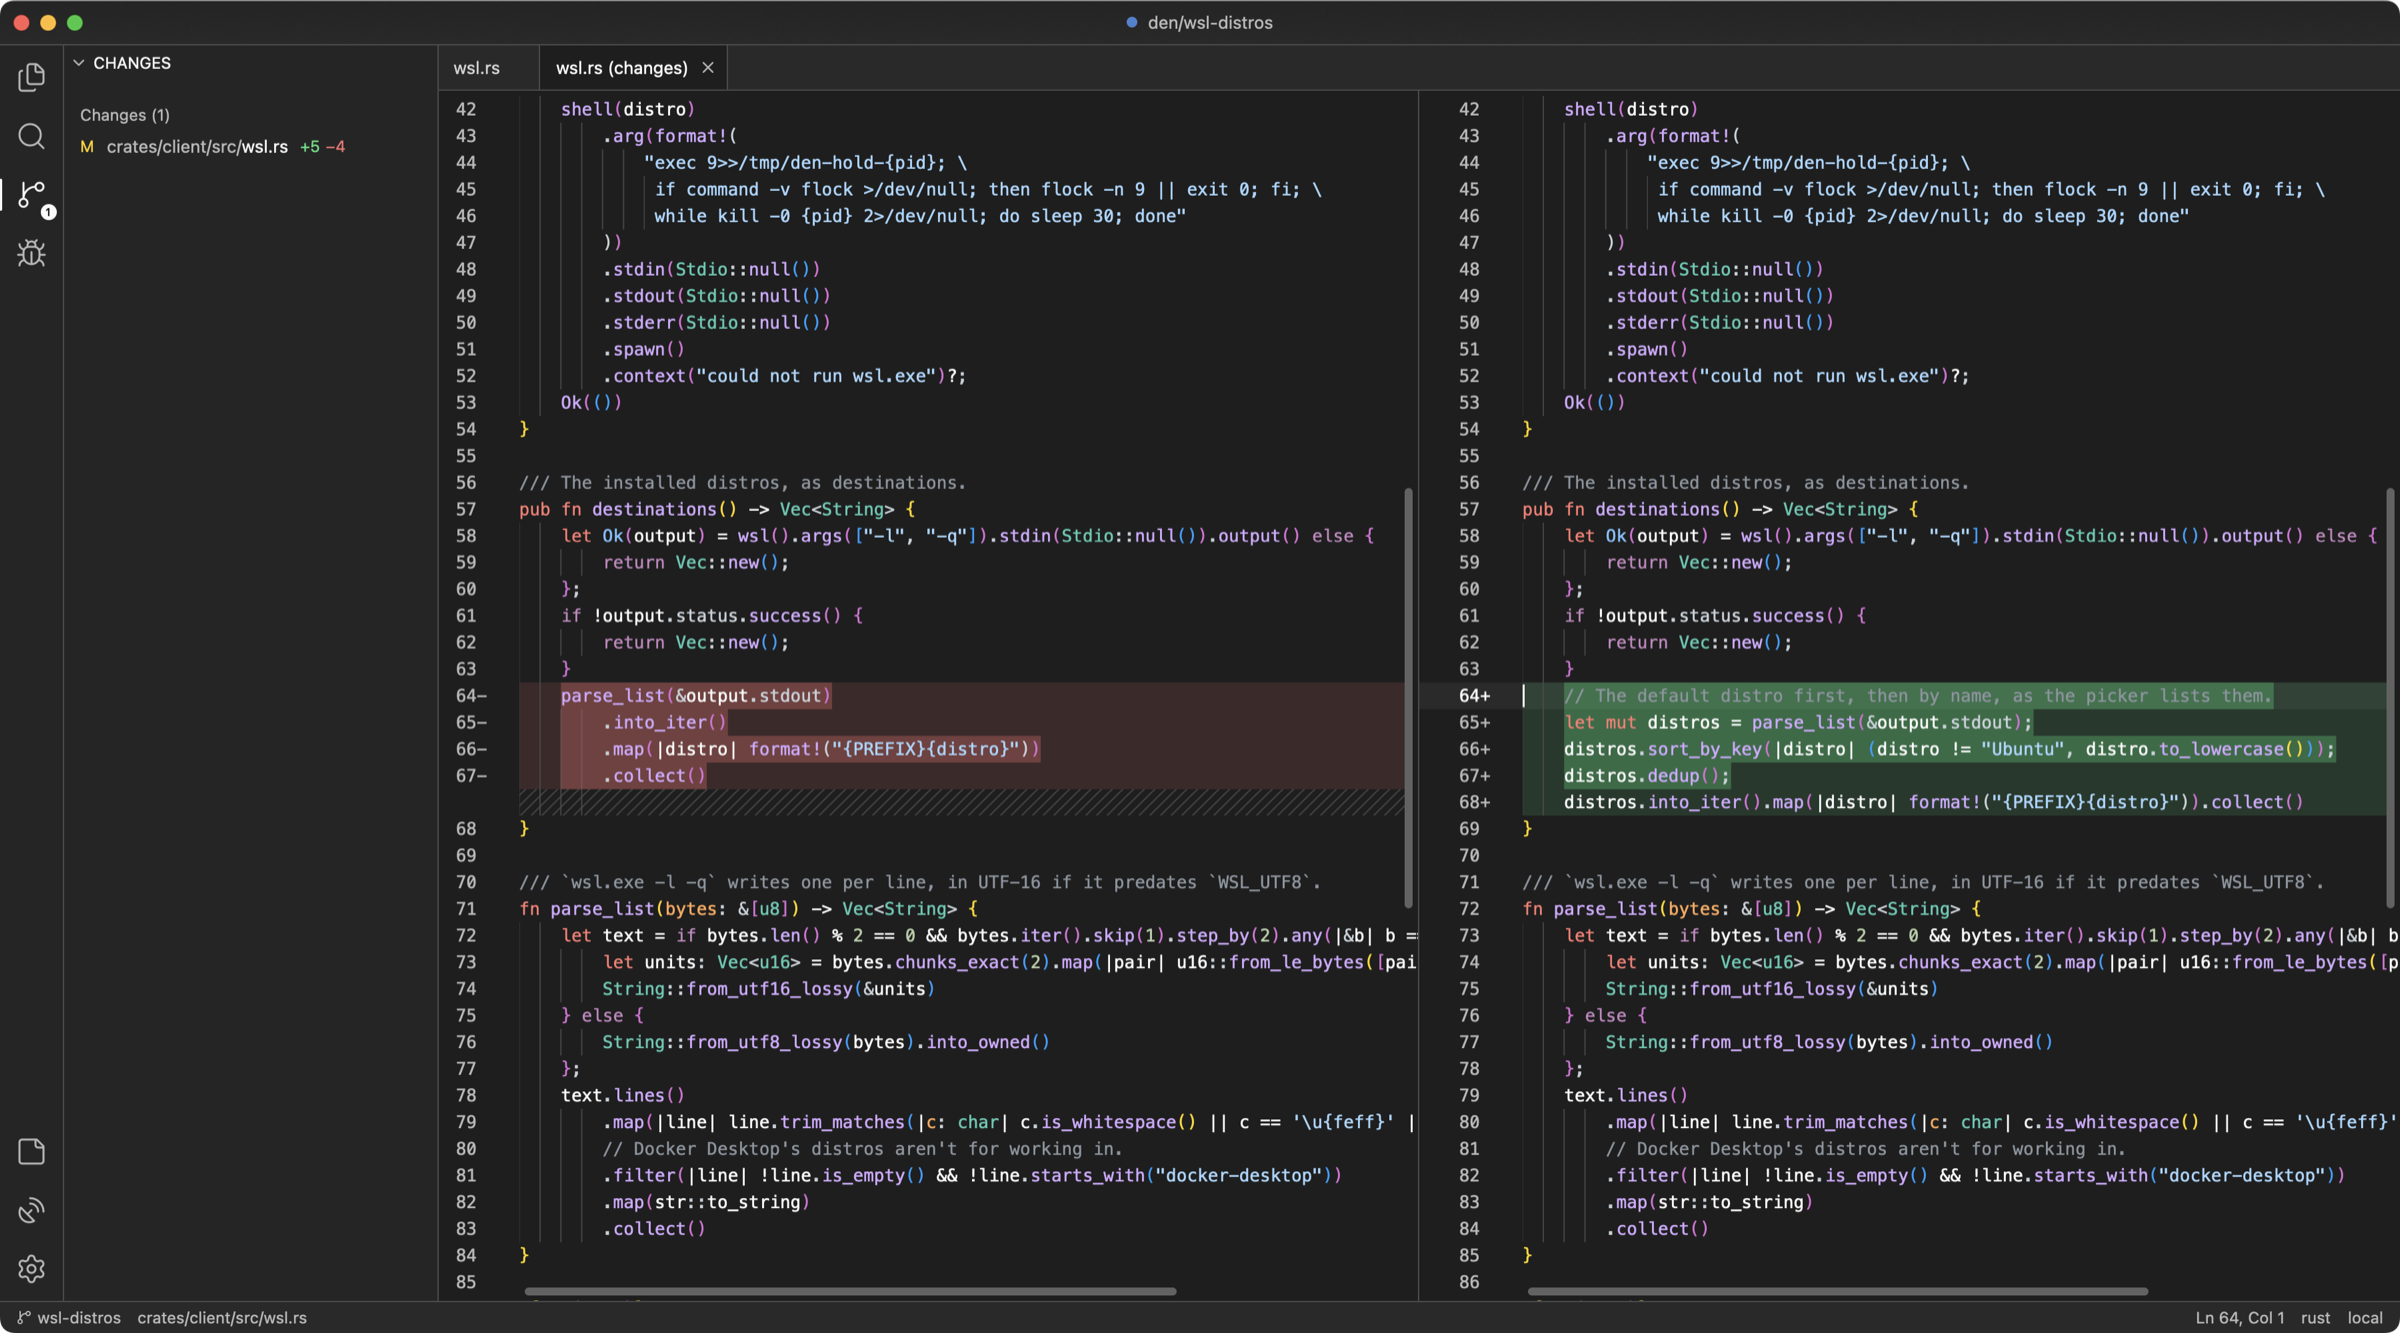
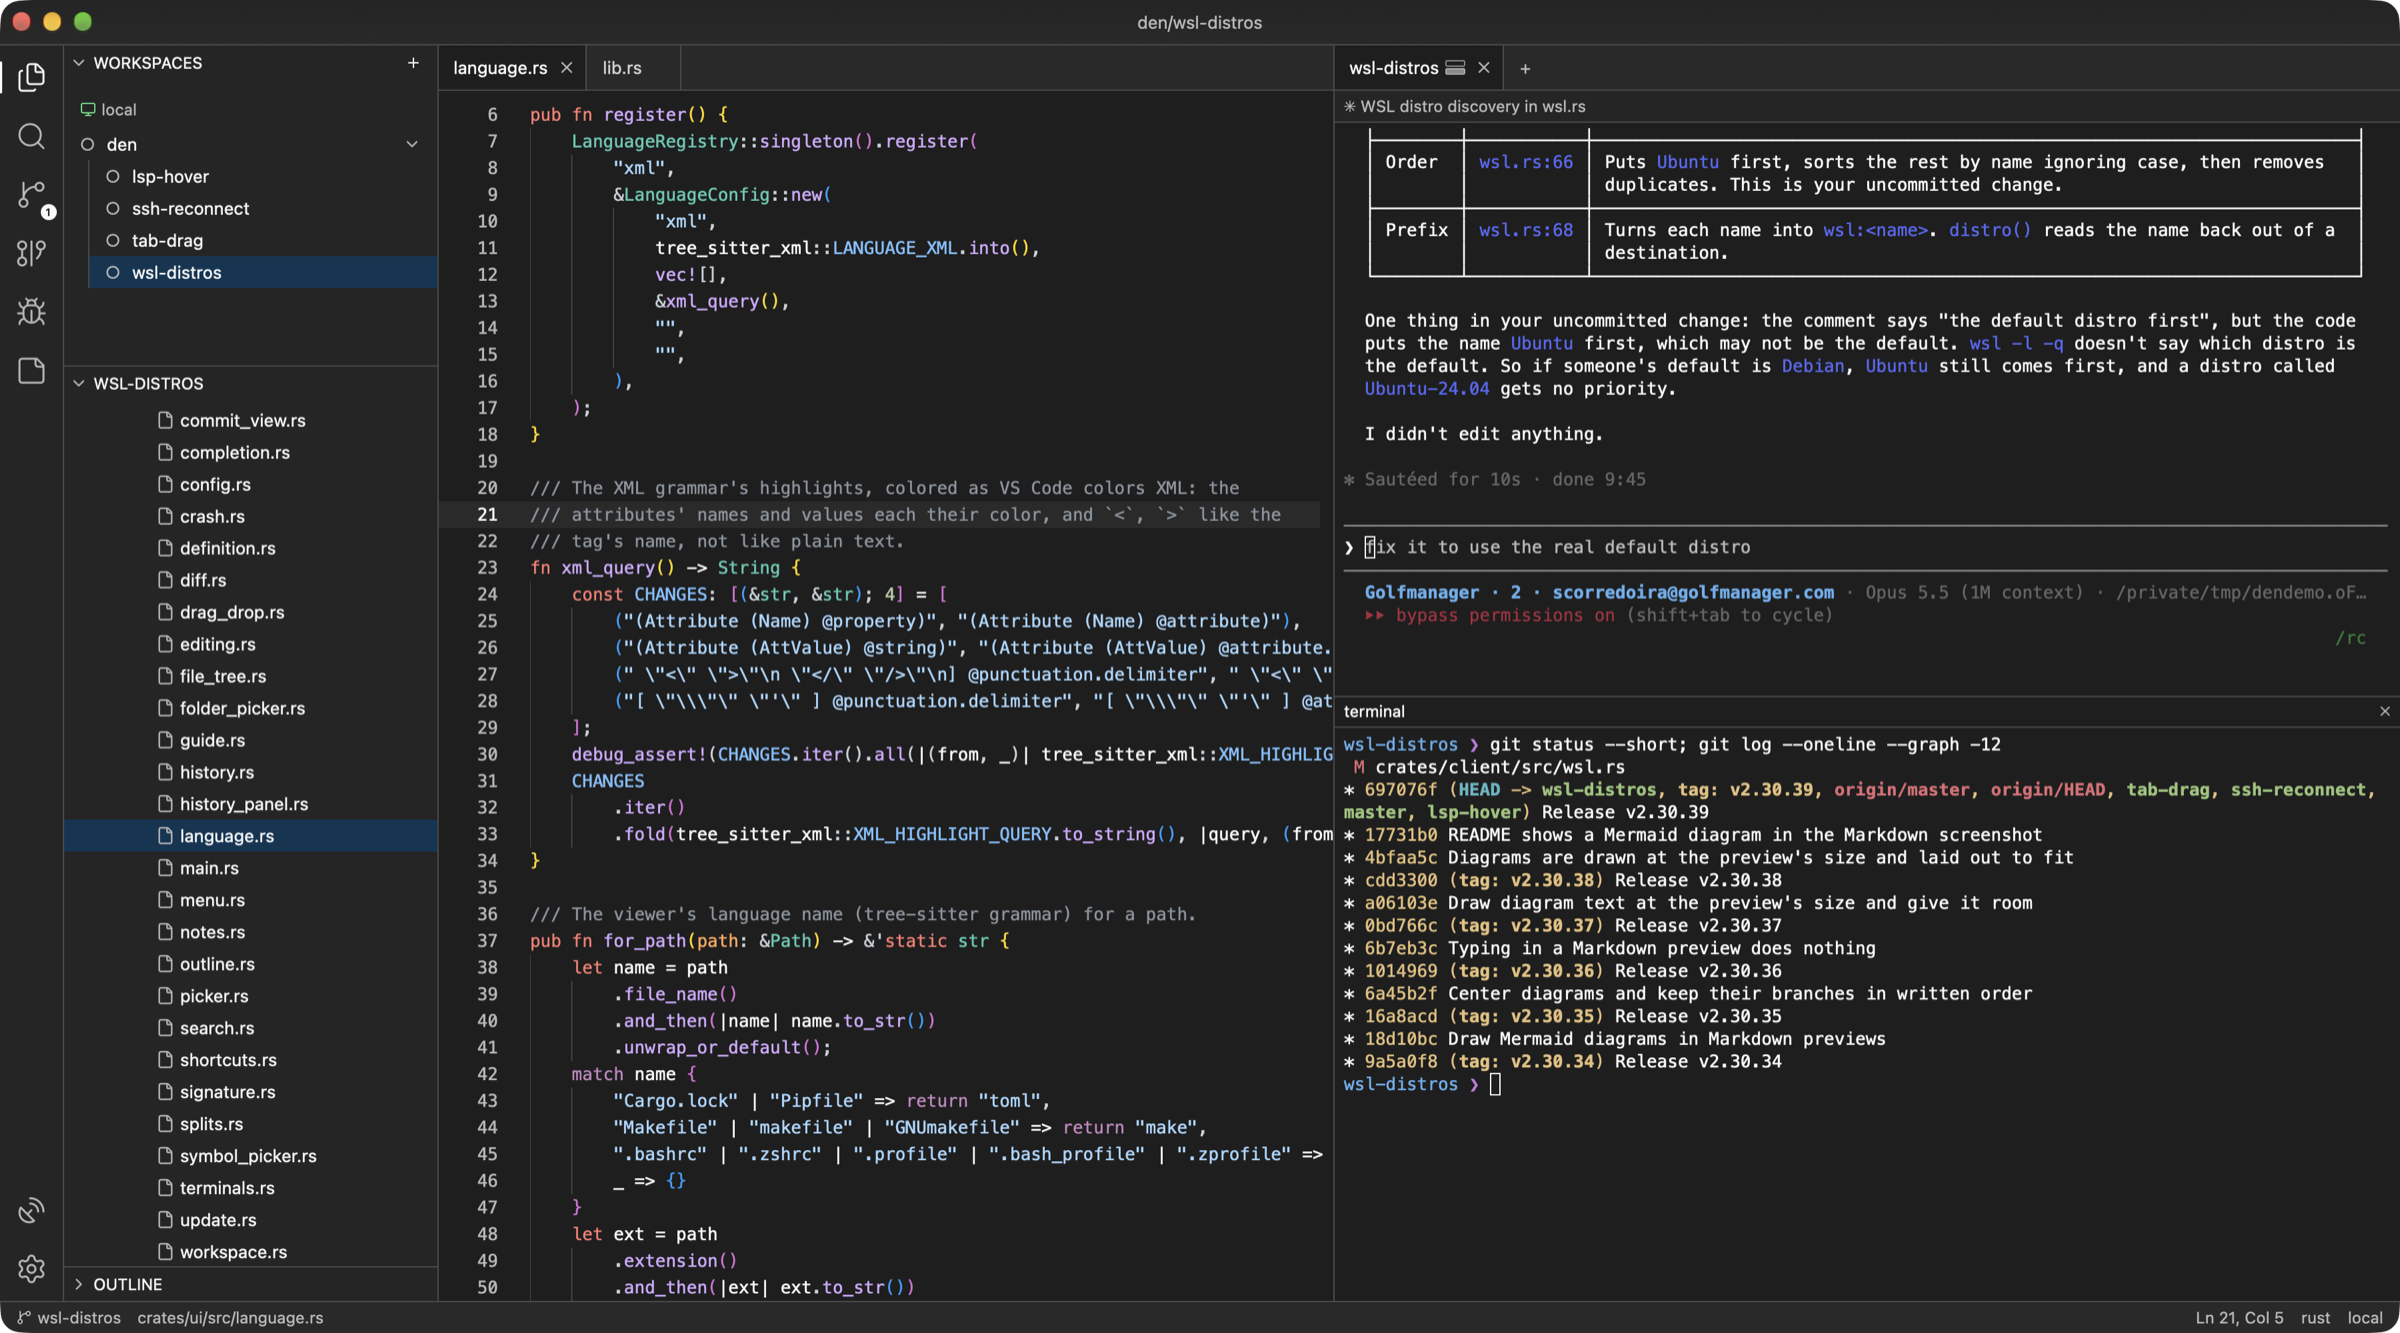
Hiding the terminals over a one-column diff focuses the diff
Cmd-J focused the diff's new side, which a one-column diff doesn't draw,
so no shortcut worked until a click. The screenshot script shows diffs
side by side, opens the History tab with a shortcut of its own and takes
the Markdown shot with a fresh config; new diff, search and history shots.

diff --git a/crates/ui/src/workspace/layout_tests.rs b/crates/ui/src/workspace/layout_tests.rs
@@ -1258,3 +1258,28 @@ fn a_plain_editor_shows_the_code_and_only_the_files_or_the_search(cx: &mut TestA
         assert!(!workspace.is_shown(Panel::Changes, cx) && !workspace.is_shown(Panel::Terminals, cx));
     });
 }
+
+/// Cmd-J from the terminals with a diff in one column in front: the keys go
+/// to the editor it shows, so the shortcuts still work.
+#[gpui_kit::test]
+fn hiding_the_terminals_focuses_a_diff(cx: &mut TestAppContext) {
+    let (workspace, cx) = draw(cx, |_| {});
+    workspace.update_in(cx, |workspace, window, cx| {
+        workspace.terminals = cx.new(|cx| crate::terminals::test_area(window, cx));
+        let mut tab = workspace.new_tab_with(PathBuf::from("/layout-test/main.ts"), false, "diff", window, cx);
+        tab.diff = Some(DiffOf { file: "main.ts".into(), commit: None, source: false, only: None });
+        tab.content = Content::Ready;
+        let ix = workspace.place_tab(tab, true);
+        let sides = crate::diff::split("@@ -1 +1 @@\n-a\n+b\n").unwrap();
+        workspace.show_side_by_side(ix, sides, false, window, cx);
+        workspace.activate_with(ix, false, window, cx);
+        workspace.set_terminals_visible(true, window, cx);
+    });
+    cx.run_until_parked();
+    cx.dispatch_action(ToggleTerminals);
+    cx.run_until_parked();
+    workspace.update_in(cx, |workspace, window, cx| {
+        assert!(!workspace.is_shown(Panel::Terminals, cx));
+        assert!(workspace.focus_handle.contains_focused(window, cx));
+    });
+}

diff --git a/crates/ui/src/workspace/tabs.rs b/crates/ui/src/workspace/tabs.rs
@@ -79,6 +79,9 @@ impl Workspace {
             focus.focus(window, cx);
         } else if tab.rendered().is_some() || tab.image.is_some() || !matches!(tab.content, Content::Ready) {
             self.focus_handle.focus(window, cx);
+        } else if let Some(old) = tab.old.as_ref().filter(|_| !Config::get(cx).diff_side_by_side()) {
+            // A diff in one column shows neither side's editor.
+            old.inline.update(cx, |state, cx| state.focus(window, cx));
         } else {
             tab.editor.update(cx, |state, cx| state.focus(window, cx));
         }
